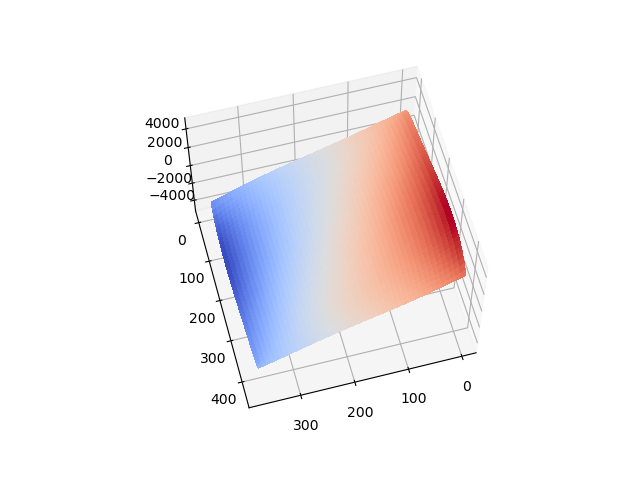
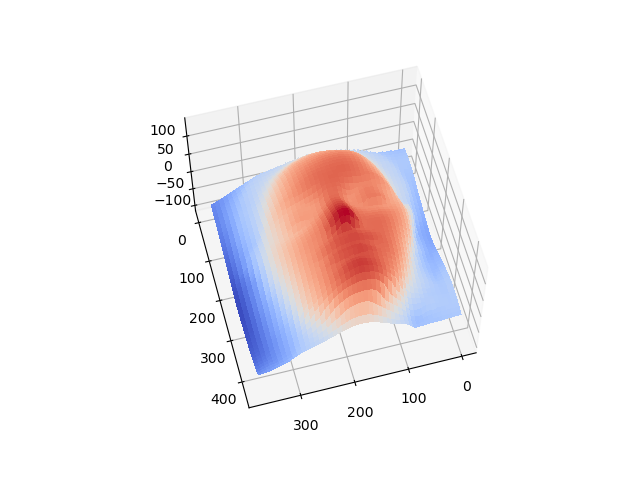
+

Changed region(s): [[0.2188, 0.1562, 0.7812, 0.7188], [0.3438, 0.625, 0.5, 0.7812]]

diff --git a/lifany_hw5/src/q2.py b/lifany_hw5/src/q2.py
@@ -125,8 +125,14 @@ if __name__ == "__main__":
     nus = [0, 1, 1, 0, -1, -1, 0, 5, 1, 0]
     lams = [1, 1, 1, -1, -1, -1, 1, 1, 10, 0.5]
 
-    mus = [100]
-    nus = [-100]
-    lams = [0.1]
     for i in range(len(mus)):
         plotBasRelief(B1, mus[i], nus[i], lams[i], s, "q2-f-" + str(i))
+
+    # Part 2 (g)
+    # experiments. (mu = 100, nu = -100, lambda = =0.1 in this case work sufficiently well)
+    mus = [100, 100, 100]
+    nus = [-100, 100, -100]
+    lams = [0.1, 0.1, 1]
+    for i in range(len(mus)):
+        plotBasRelief(B1, mus[i], nus[i], lams[i], s, "q2-g-" + str(i))
+
